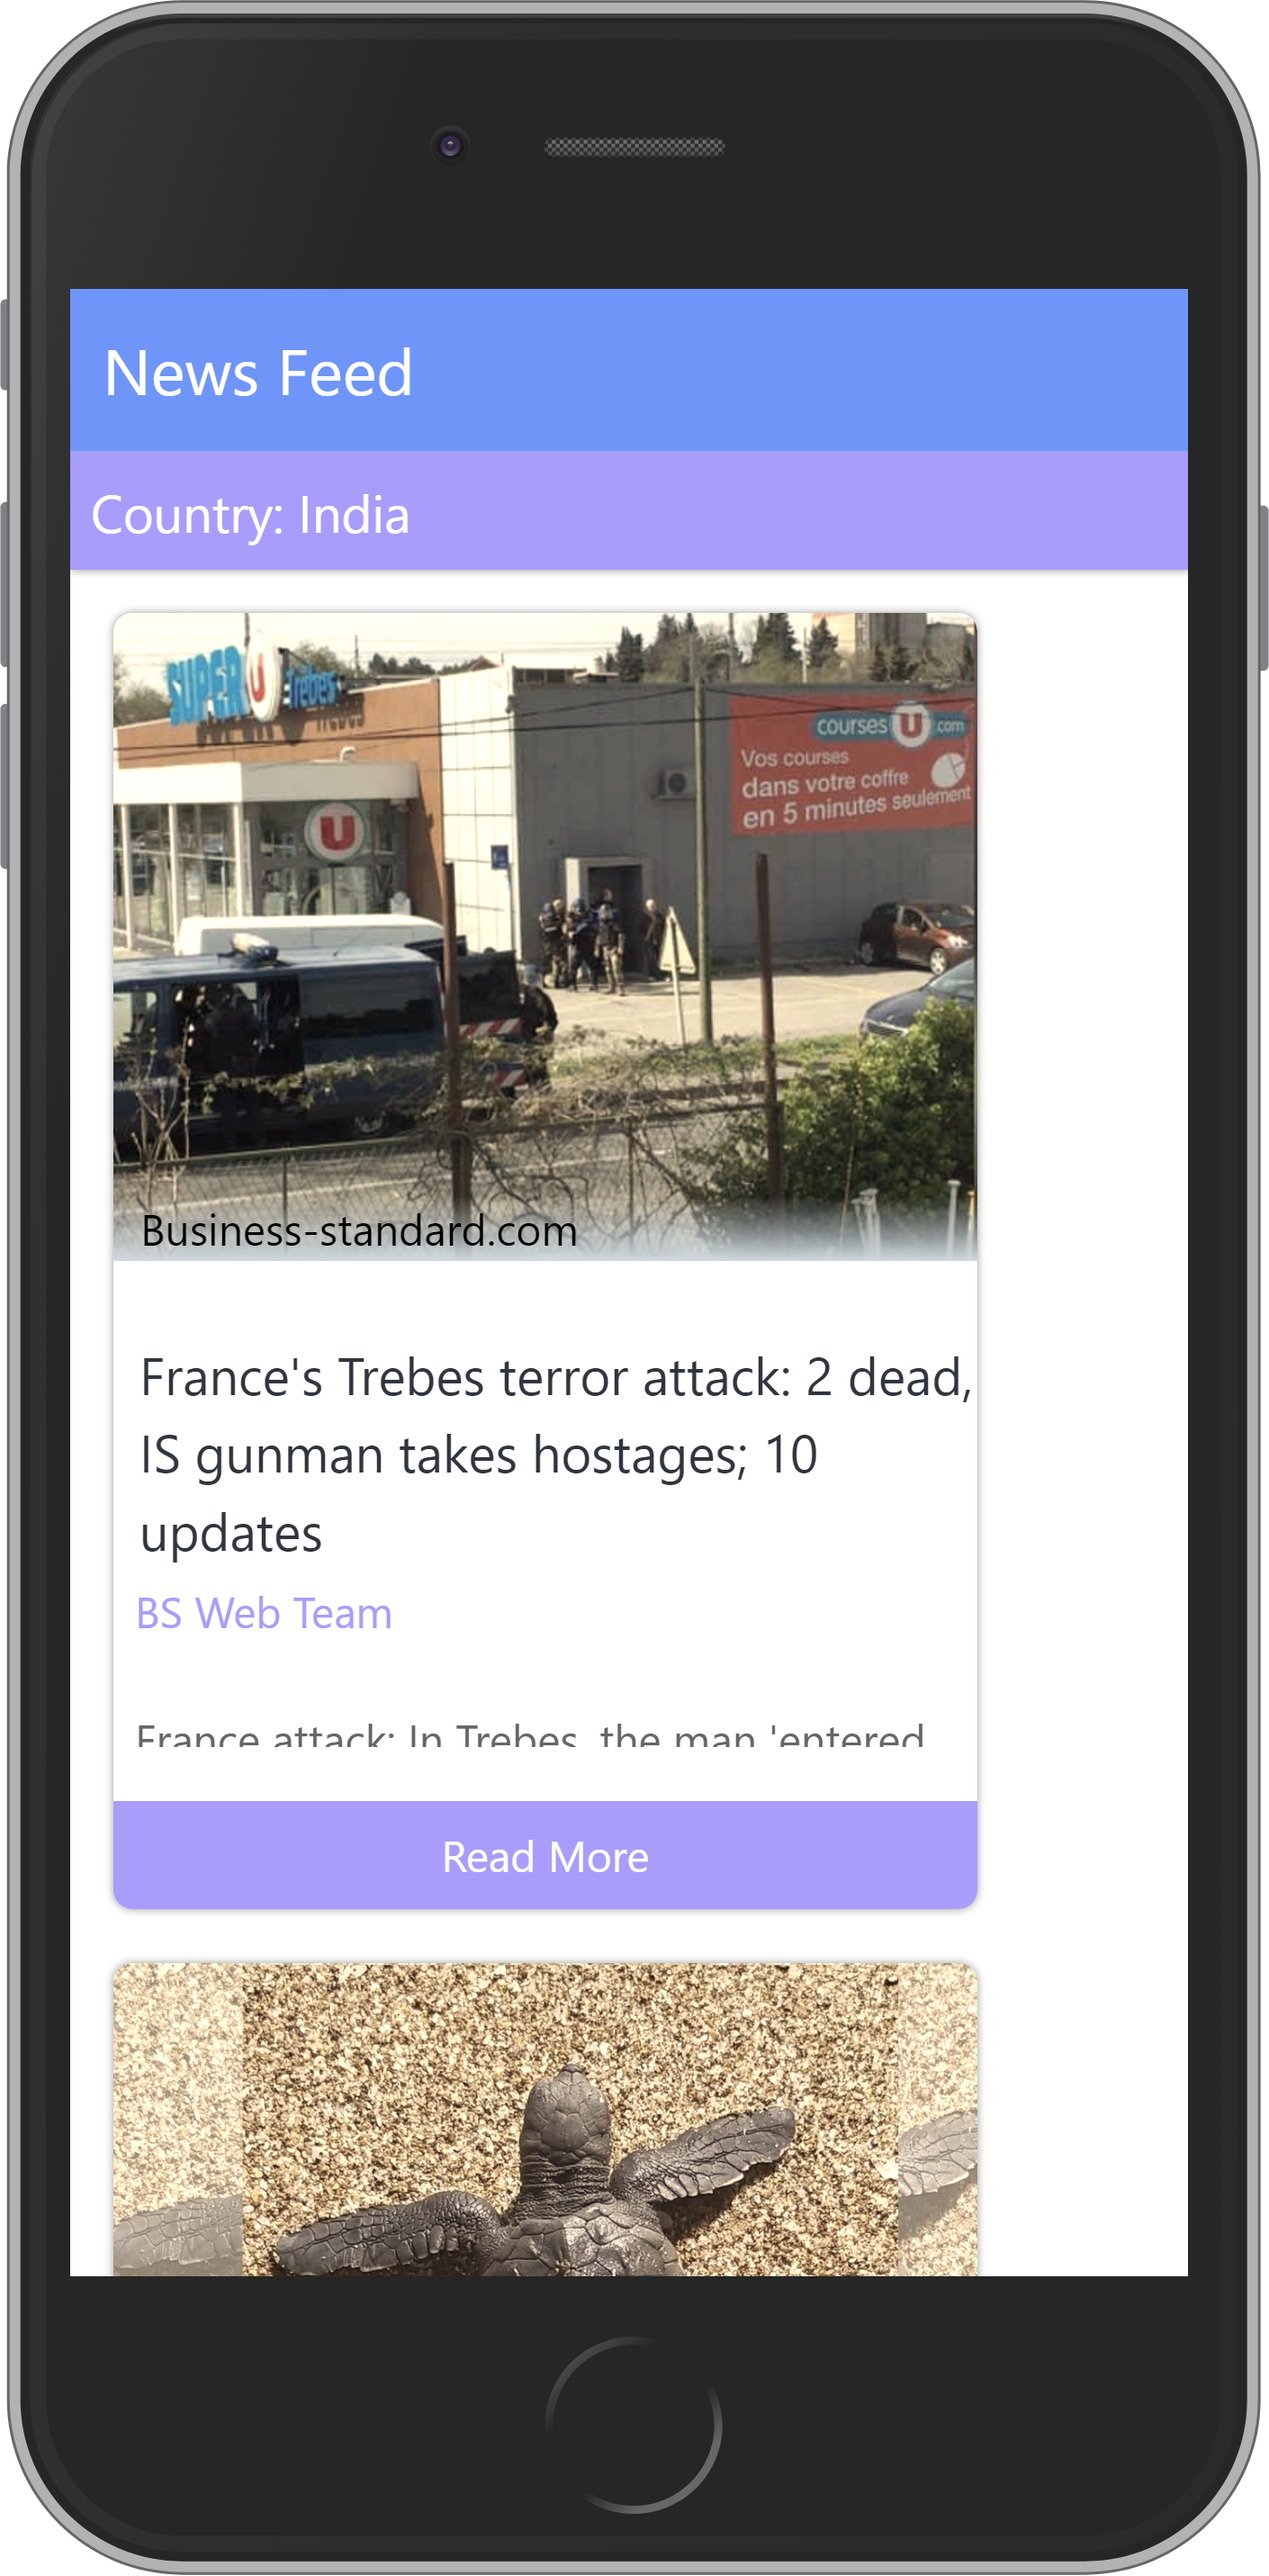
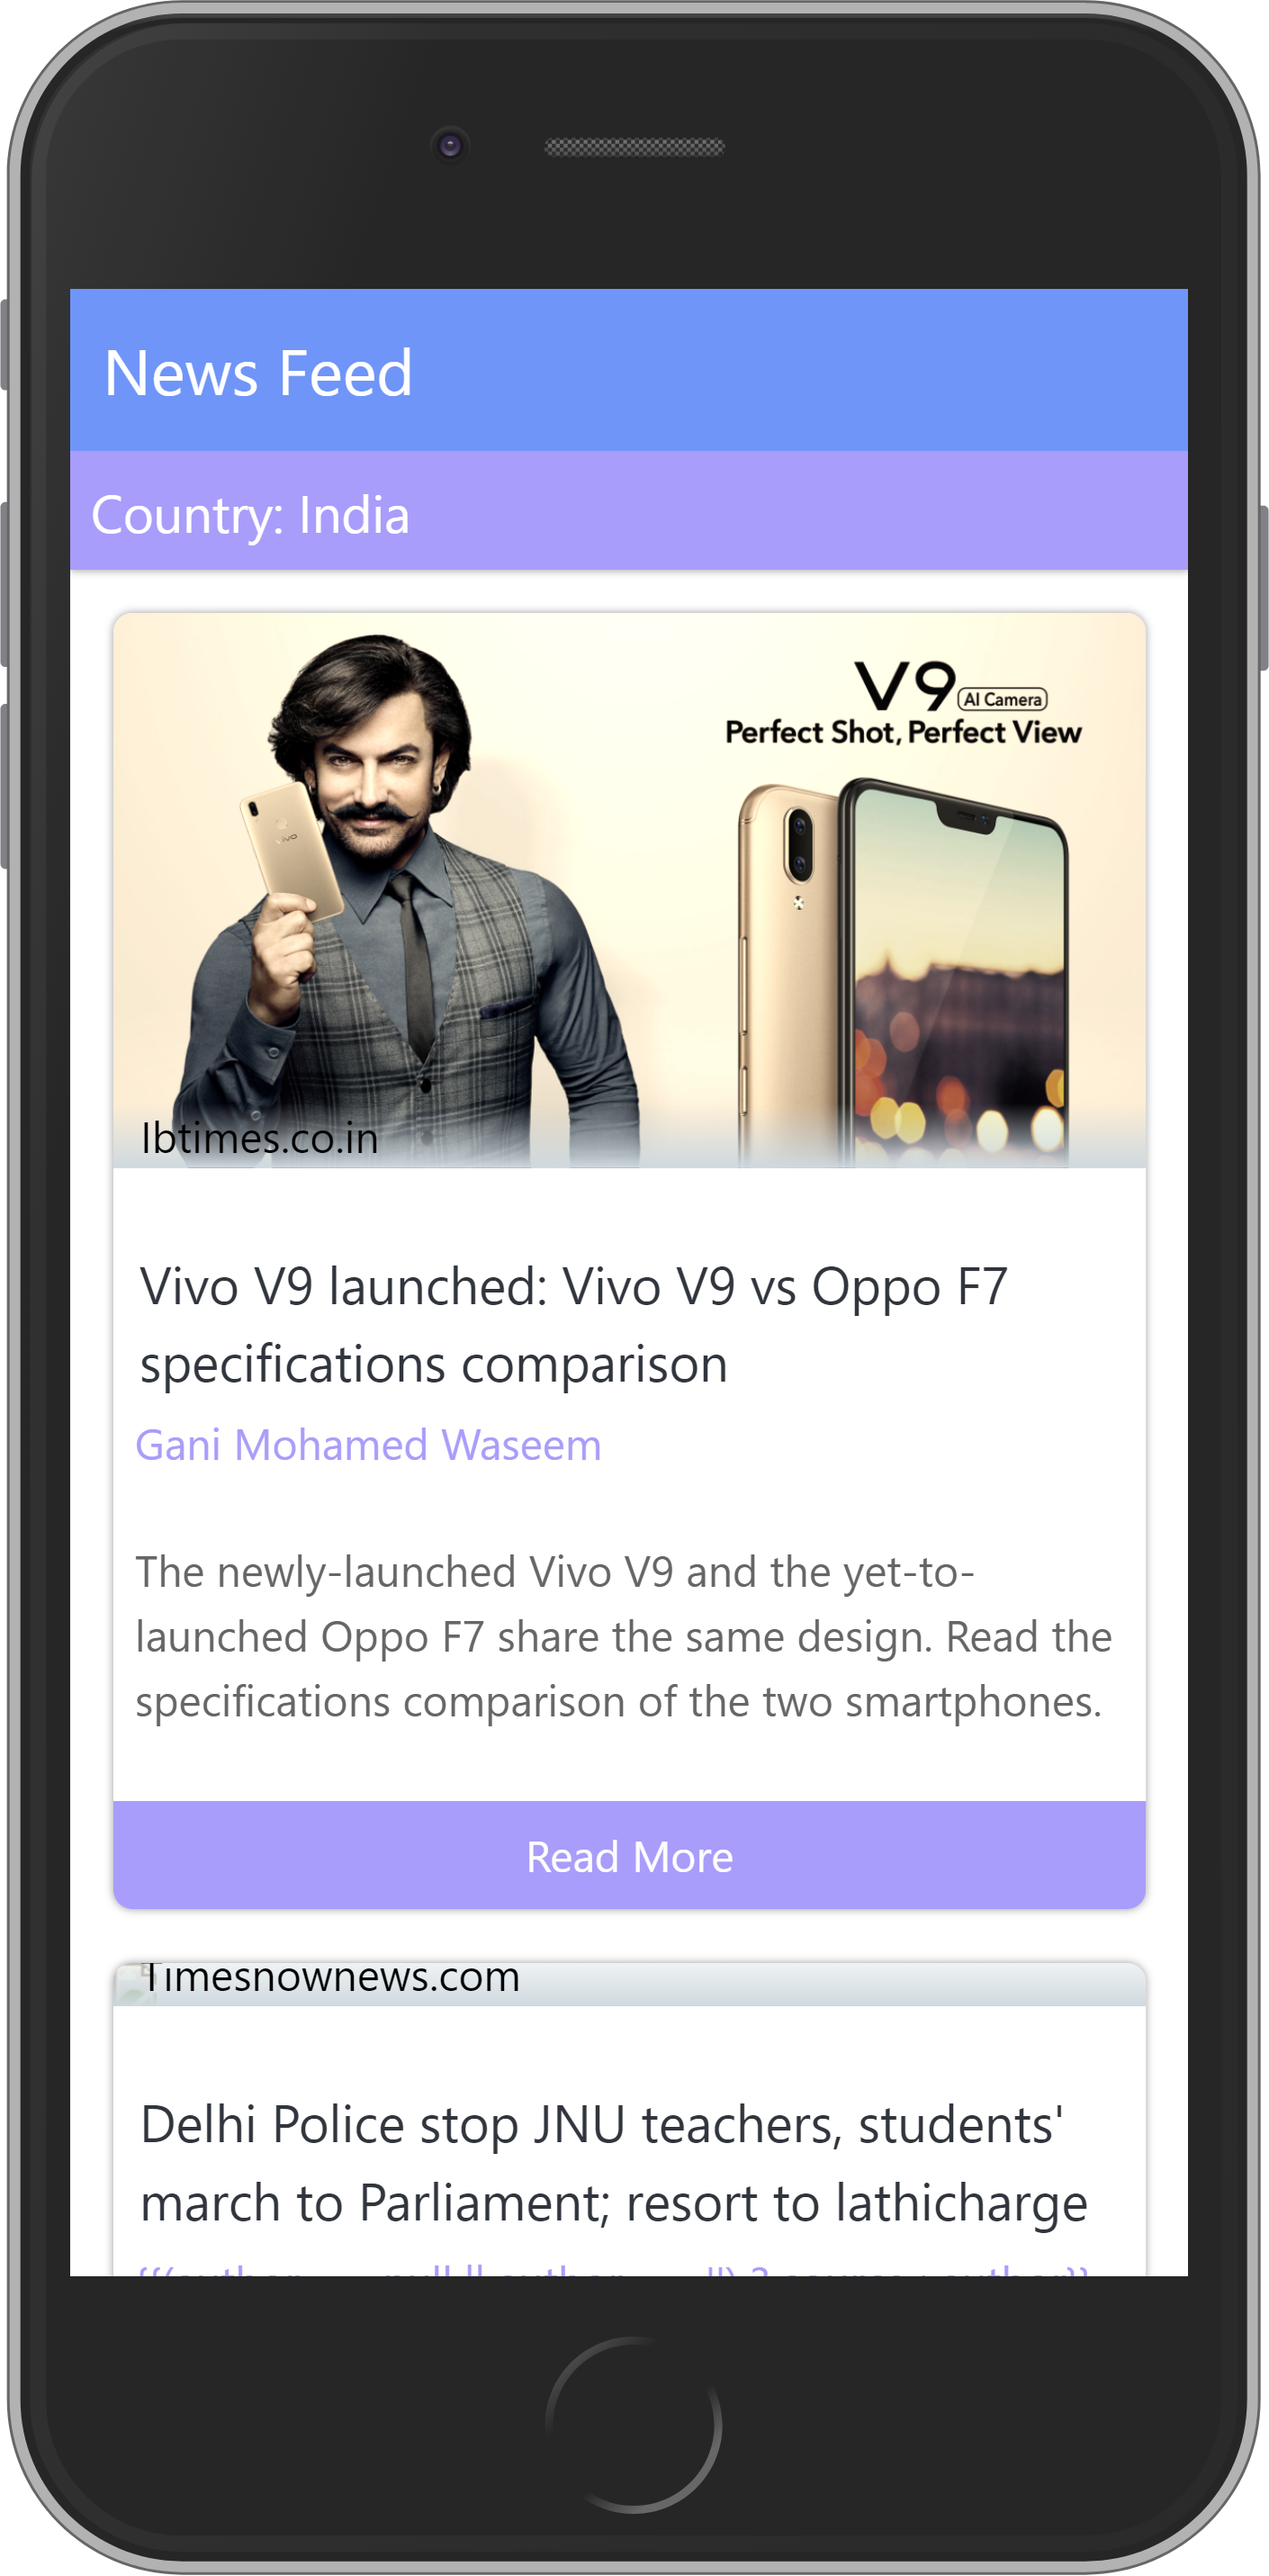
Screenshot change

Changed region(s): [[0.0624, 0.2177, 0.905, 0.9018]]

diff --git a/style/newscard.scss b/style/newscard.scss
@@ -4,7 +4,6 @@ body,html{
     overflow-x: hidden;
 }
 .newscard{
-    width:20em;
     padding-bottom: 0px;
     box-shadow: 0px 0px 4px 0px $color-shadow;
     border-radius:$corner-radius; 
@@ -54,6 +53,7 @@ body,html{
     .newsSource{
         position: relative;
         padding-left: 10px;
+        padding-top: 10px;
         bottom: 1.5em;
         font-size: 1em;
         color: black;
